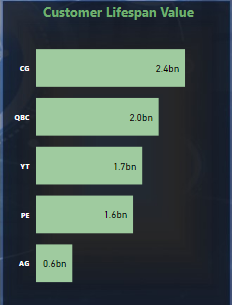
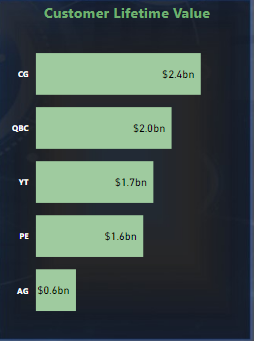
last commit

Changed region(s): [[0.0, 0.0, 1.0, 1.0]]

diff --git a/generic.html b/generic.html
@@ -46,50 +46,53 @@
 								<div class="image main"><img src="images/olkdashboard.PNG" alt="" />
 								</div>
 							<p>
+							<h4>
 								<strong>Introduction:</strong>
-								OLK Cookies Industries LTD, a leading producer of cookies for human 
-								consumption, embarked on a comprehensive analysis to illuminate critical aspects of its 
-								business operations.
-							</p>	
-							<p>	 
-								The primary objective of this endeavor is to provide actionable insights for refining 
-									business strategies and enhancing overall performance within the realm of cookie sales.
-									The project was aimed at conducting an in-depth sales analysis of the business,
-									 with particular emphasis on examining the impact of shipment duration on 
-									 customer lifetime value. 
+							</h4>
+							OLK Cookies Industries LTD, a leading producer of cookies for human consumption, has 
+							embarked on a comprehensive analysis to illuminate critical aspects of its business
+							 operations. With a primary aim to provide actionable insights for refining business 
+							 strategies and enhancing overall performance within the realm of cookie sales, this 
+							 project focuses on conducting an in-depth sales analysis. Particular emphasis is placed 
+							 on examining the impact of shipment duration on customer lifetime value. 
+							</p>
 							<p>
-									 During this analysis Cascade Grovers, Acme Grocery Store, Park & Eat LLC,
-									 Quick Bite Convenience Store, YT Restaurants was abbreviated to 
-									 CG, AG, PE, QBC, YT respectively.
+								During this analysis Cascade Grovers, Acme Grocery Store, Park & Eat LLC,
+								Quick Bite Convenience Store, YT Restaurants was abbreviated to 
+								CG, AG, PE, QBC, YT respectively.
 							</p>
 							</p>
 							<p>
+							<h4>
 								<strong>Objective:</strong>
+							</h4>
 									The primary objective of this analysis was to identify and delineate key performance 
 									indicators (KPIs) encompassing
 									<ul>
-									 	<li>Total Transactions</li>
-										<li>Total Cookies Shipped</li>
-										<li>Total Revenue</li>
-										<li>Gross Profit Margin</li>
-										<li>Production Costs. </li>
-										<li>Customer Lifespan Value</li>
+									 	<li>Total Transactions and year to year growth</li>
+										<li>Total Cookies Shipped and year to year growth</li>
+										<li>Total Revenue and year to year growth</li>
+										<li>Average Order Value</li>
+										<li>Conversion Rate </li>
+										<li>Customer Lifetime Value</li>
+										<li>The effect of Shipments on Customer Lifetime Value</li>
 									</ul>
 									
 							</p>
 							<p>
-									Executed as part of an intern project, this analysis involved meticulous 
-									data cleaning and modeling procedures utilizing advanced tools such as Power Query 
-									and Power BI. By leveraging these sophisticated analytical tools, the project ensured 
-									a rigorous and insightful examination of OLK Industrie's operational dynamics, 
-									facilitating a nuanced understanding of various crucial facets vital for strategic
-									 decision-making and business optimization.
+								Executed as part of an intern project, this analysis involved meticulous data 
+								cleaning and modeling procedures leveraging advanced tools such as Power Query 
+								and Power BI. By employing these sophisticated analytical tools, the project ensures 
+								a rigorous and insightful examination of OLK Industries' operational dynamics. 
+								This facilitates a nuanced understanding of various crucial facets vital for strategic
+								 decision-making and business optimization.
 							</p>
 							
-							
+							<h4>
 								<strong>	
 									Data Preparation:
 								</strong>
+							</h4>
 								The raw data, spanning four years and organized into separate Excel sheets, was imported into Power Query using append 
 									and merge. 
 									The data underwent cleaning to address null values and unwanted figures. Afterward, it was loaded into Power BI
@@ -101,11 +104,12 @@
 								
 									
 									 
-									<p>
-									
+								<p>
+									<h4>
 										<strong>
 											Key Findings:
 										</strong>
+									</h4>
 											The dashboard revealed several primary key insights for overall year:
 										<div>
 											<img class="image column" src="images/olkkpi.PNG"  alt="" />
@@ -114,8 +118,8 @@
 											<li>Total transactions: 3172</li>	
 											<li>Total Cookies Shipped: 1.6 million</li>
 											<li>Total revenue: $2.7 billion</li>
-											<li>Gross profit margin 10.00%</li>
-											<li>Production cost: $3.70 million</li>	
+											<li>Average Order Value 1,658.77</li>
+											<li>Conversion Rate: 519.06</li>	
 										</ul>
 									</p>
 									
@@ -207,7 +211,7 @@
 								
 								<p>
 									<strong>
-										Profit Analysis by Year:
+										Revenue Analysis by Year (Quarterly):
 									</strong>
 								
 									<h4>
@@ -272,19 +276,61 @@
 								
 								</p>
 								<p>
+									
 									<h4>
 										<strong>Customer Lifetime Value in respect to duration of shipment</strong>
 									</h4>
-									
-										<img class="image card" src="images/olkclvtrans1.PNG" alt="" />
-												
-										<img class="image card" src="images/olkclvtrans2.PNG" alt="" />
-										Based on the scatter plot analysis, it is evident that Cascade Grocers exhibits a higher Customer 
-										Lifetime Value (CLV) when shipment duration is lower, and conversely, a lower CLV when there is delay in shipment
-										. This observation suggests a clear relationship between shipment duration and business performance.
-										 Specifically, it indicates that longer shipment durations may have a detrimental impact on the business's 
-										 overall profitability, while shorter durations correlate with higher CLV.
-								</p>
+									<p>
+										<h4>
+											Cascade Grocers
+										</h4>	
+											<img class="image card" src="images/olkclvtrans2.PNG" alt="" />
+											Cascade Grocers demonstrates a clear pattern where lower shipment durations 
+											correspond to higher Customer Lifetime Value (CLV). Specifically, CLV values 
+											of $1,927,781,557.5, $452,906,790, and $6,912,000 are associated with shipment 
+											durations of 2, 3, and 4 days, respectively.
+										
+									</p>
+									<p>
+										<h4>
+											Park & Eat LLC
+										</h4>	
+										<img class="image card" src="images/olkclvtrans3.PNG" alt="" />
+										Park & Eat LLC exhibits varied CLV values for shipment durations of 4 and 5 days,
+										with corresponding values of $455,237,565 and $1,100,255,017.5, respectively.
+									</p>	
+									<p>
+										<h4>
+											Quick Bite Convenience Store
+										</h4>
+										<img class="image card" src="images/olkclvtrans4.PNG" alt="" />
+										Quick Bite Convenience Store shows higher CLV values for shipment durations of
+										 3 and 4 days, with respective values of $500,997,742.5 and $1,464,487,222.5.
+									</p>
+									<p>	 
+										<h4>
+											YT Restaurant
+										</h4>
+										<img class="image card" src="images/olkclvtrans5.PNG" alt="" />
+										YT Restaurant indicates elevated CLV values for shipment durations of 5 and 6 
+										days, with values of $1,580,324,235 and $121,648,470, respectively.
+									</p>
+									<p>	
+										<h4>
+											Acme Grocery Store
+										</h4>
+										<img class="image card" src="images/olkclvtrans6.PNG" alt="" />
+										Acme Grocery Store displays a CLV of $582,654,975 for a 2-day shipment duration.
+									</p>
+								</p>	
+
+									<p>
+										This observation underscores a consistent relationship between shipment duration and 
+										CLV across various customers. Shorter shipment durations tend to correlate with higher 
+										CLV values, while longer durations are associated with lower CLV values. This emphasizes 
+										the significance of timely delivery and efficient logistics in maximizing customer 
+										lifetime value and overall business performance for each customers.
+									</p>
 							</p>
 								
 								
